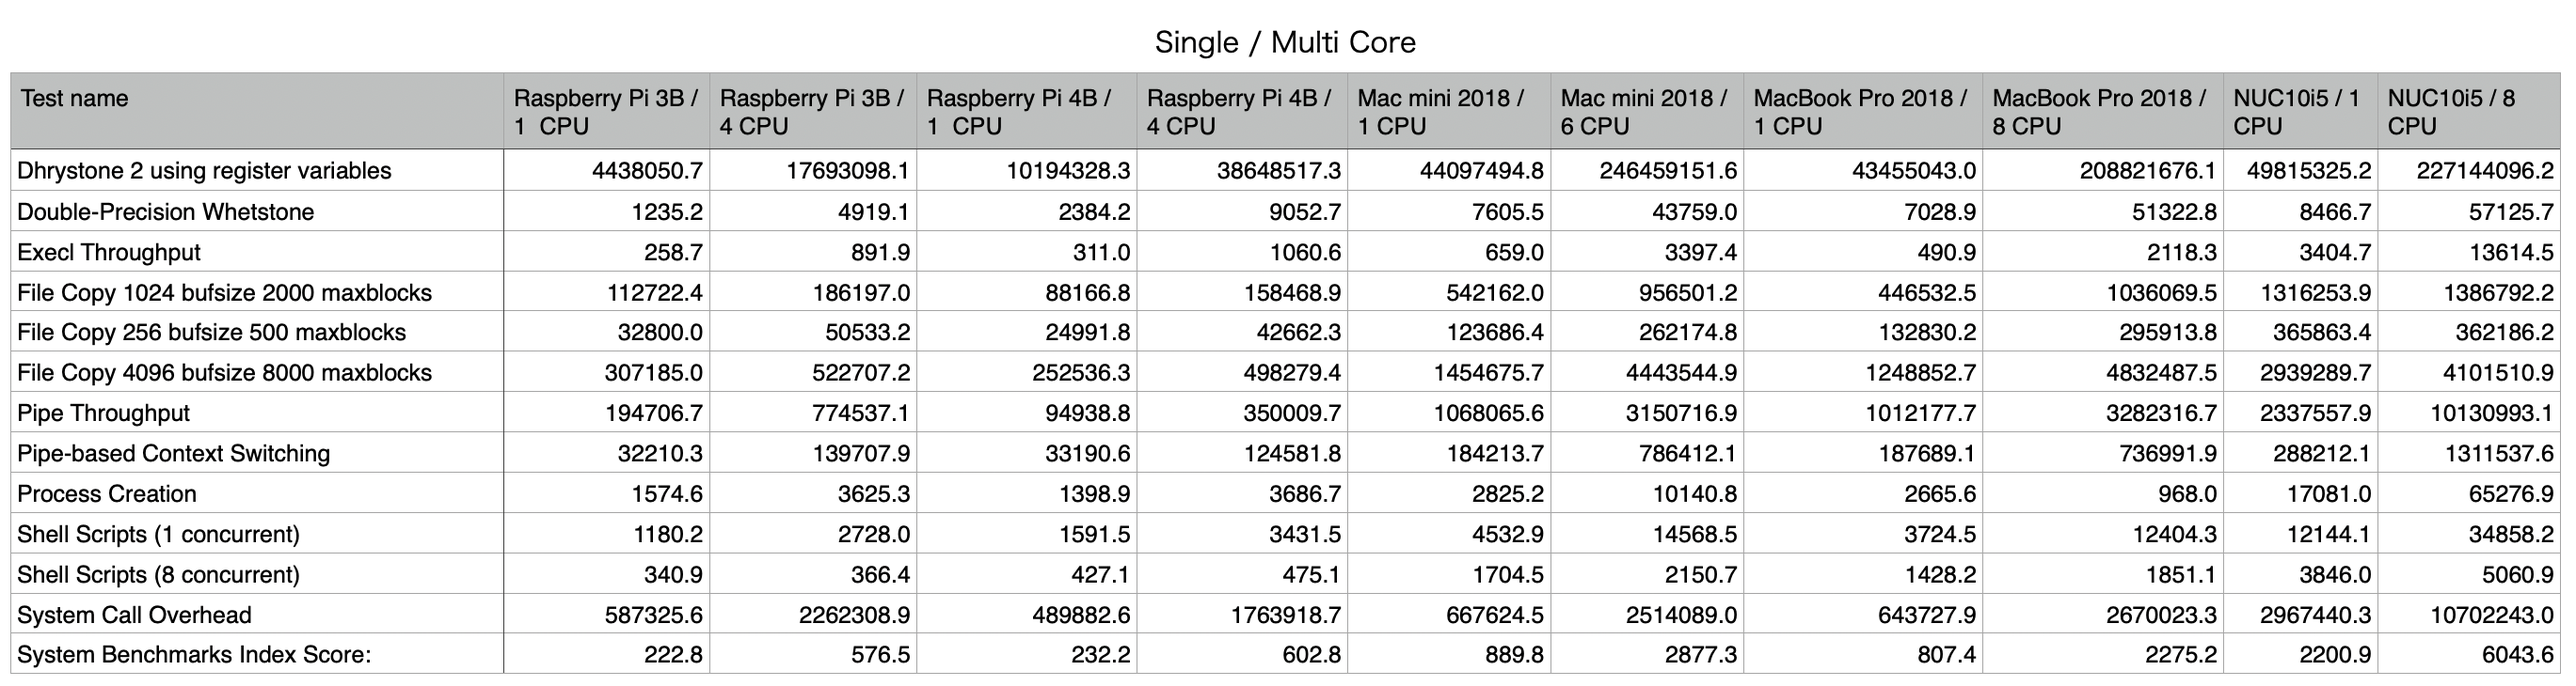
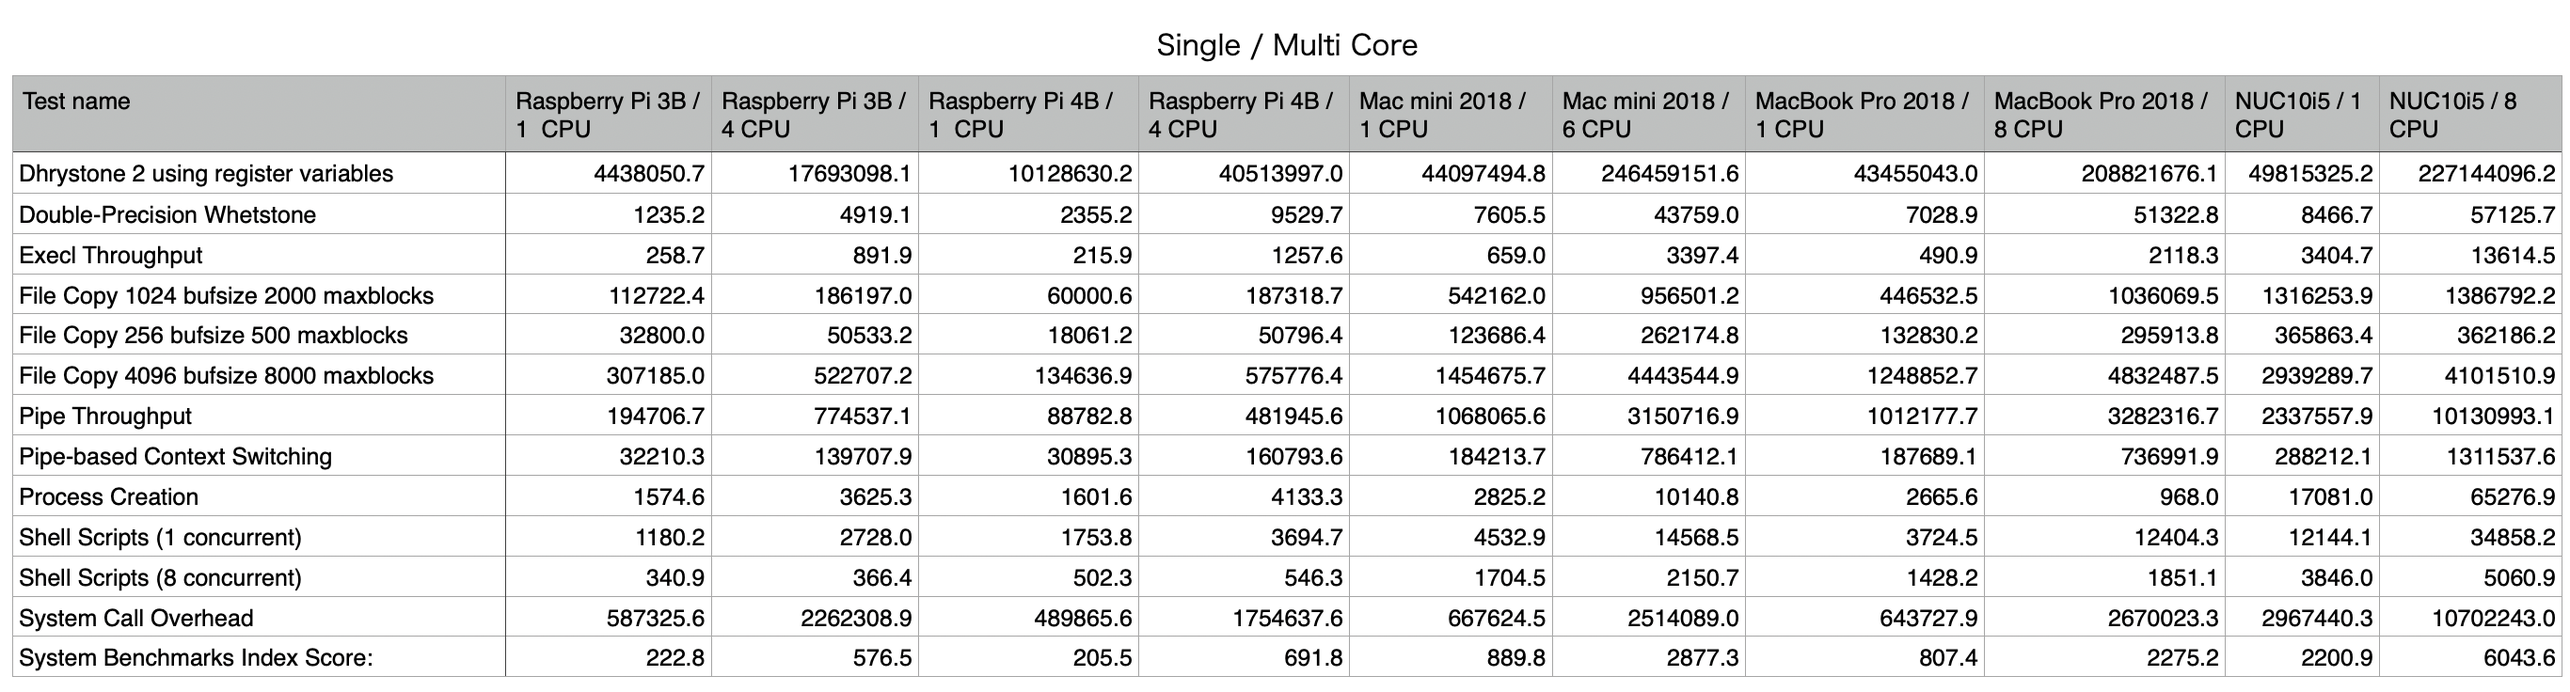
Update raspi4B

diff --git a/raspi4B-2020-11-18-01.html b/raspi4B-2020-11-18-01.html
@@ -35,7 +35,7 @@
    <td colspan=2>Raspberry Pi 4B: GNU/Linux</td>
 </tr><tr>
    <td><b>OS:</b></td>
-   <td colspan=2>GNU/Linux -- 5.4.72-v7l+ -- #1356 SMP Thu Oct 22 13:57:51 BST 2020</td>
+   <td colspan=2>GNU/Linux -- 5.4.51-v7l+ -- #1333 SMP Mon Aug 10 16:51:40 BST 2020</td>
 </tr><tr>
    <td><b>Machine:</b></td>
    <td colspan=2>armv7l: unknown</td>
@@ -66,13 +66,13 @@
 </tr>
 <tr>
    <td><b>Uptime:</b></td>
-   <td colspan=2>08:19:53 up 3 min,  3 users,  load average: 0.50, 0.44, 0.19; runlevel 2020-11-12</td>
+   <td colspan=2>12:24:33 up 16 min,  3 users,  load average: 1.07, 0.41, 0.20; runlevel 2020-11-18</td>
 </tr>
 </table></p>
 
 <p><hr/></p>
 <h3>Benchmark Run: 4 CPUs; 1 parallel process</h3>
-<p>Time: 08:19:53 - 08:47:50; 27m 57s</p>
+<p>Time: 12:24:33 - 12:52:28; 27m 55s</p>
 
 <h4>System Benchmarks</h4>
 <p><table width="100%">
@@ -87,106 +87,106 @@
 </tr>
 <tr>
    <td><b>Dhrystone 2 using register variables</b></td>
-   <td align=right><tt>10194328.3</tt></td>
+   <td align=right><tt>10128630.2</tt></td>
    <td align=left><tt>lps</tt></td>
    <td align=right><tt>10.0 s</tt></td>
    <td align=right><tt>7</tt></td>
    <td align=right><tt>116700.0</tt></td>
-   <td align=right><tt>873.5</tt></td>
+   <td align=right><tt>867.9</tt></td>
 </tr>
 <tr>
    <td><b>Double-Precision Whetstone</b></td>
-   <td align=right><tt>2384.2</tt></td>
+   <td align=right><tt>2355.2</tt></td>
    <td align=left><tt>MWIPS</tt></td>
    <td align=right><tt>9.6 s</tt></td>
    <td align=right><tt>7</tt></td>
    <td align=right><tt>55.0</tt></td>
-   <td align=right><tt>433.5</tt></td>
+   <td align=right><tt>428.2</tt></td>
 </tr>
 <tr>
    <td><b>Execl Throughput</b></td>
-   <td align=right><tt>311.0</tt></td>
+   <td align=right><tt>215.9</tt></td>
    <td align=left><tt>lps</tt></td>
    <td align=right><tt>29.9 s</tt></td>
    <td align=right><tt>2</tt></td>
    <td align=right><tt>43.0</tt></td>
-   <td align=right><tt>72.3</tt></td>
+   <td align=right><tt>50.2</tt></td>
 </tr>
 <tr>
    <td><b>File Copy 1024 bufsize 2000 maxblocks</b></td>
-   <td align=right><tt>88166.8</tt></td>
+   <td align=right><tt>60000.6</tt></td>
    <td align=left><tt>KBps</tt></td>
    <td align=right><tt>30.0 s</tt></td>
    <td align=right><tt>2</tt></td>
    <td align=right><tt>3960.0</tt></td>
-   <td align=right><tt>222.6</tt></td>
+   <td align=right><tt>151.5</tt></td>
 </tr>
 <tr>
    <td><b>File Copy 256 bufsize 500 maxblocks</b></td>
-   <td align=right><tt>24991.8</tt></td>
+   <td align=right><tt>18061.2</tt></td>
    <td align=left><tt>KBps</tt></td>
    <td align=right><tt>30.0 s</tt></td>
    <td align=right><tt>2</tt></td>
    <td align=right><tt>1655.0</tt></td>
-   <td align=right><tt>151.0</tt></td>
+   <td align=right><tt>109.1</tt></td>
 </tr>
 <tr>
    <td><b>File Copy 4096 bufsize 8000 maxblocks</b></td>
-   <td align=right><tt>252536.3</tt></td>
+   <td align=right><tt>134636.9</tt></td>
    <td align=left><tt>KBps</tt></td>
    <td align=right><tt>30.0 s</tt></td>
    <td align=right><tt>2</tt></td>
    <td align=right><tt>5800.0</tt></td>
-   <td align=right><tt>435.4</tt></td>
+   <td align=right><tt>232.1</tt></td>
 </tr>
 <tr>
    <td><b>Pipe Throughput</b></td>
-   <td align=right><tt>94938.8</tt></td>
+   <td align=right><tt>88782.8</tt></td>
    <td align=left><tt>lps</tt></td>
    <td align=right><tt>10.0 s</tt></td>
    <td align=right><tt>7</tt></td>
    <td align=right><tt>12440.0</tt></td>
-   <td align=right><tt>76.3</tt></td>
+   <td align=right><tt>71.4</tt></td>
 </tr>
 <tr>
    <td><b>Pipe-based Context Switching</b></td>
-   <td align=right><tt>33190.6</tt></td>
+   <td align=right><tt>30895.3</tt></td>
    <td align=left><tt>lps</tt></td>
    <td align=right><tt>10.0 s</tt></td>
    <td align=right><tt>7</tt></td>
    <td align=right><tt>4000.0</tt></td>
-   <td align=right><tt>83.0</tt></td>
+   <td align=right><tt>77.2</tt></td>
 </tr>
 <tr>
    <td><b>Process Creation</b></td>
-   <td align=right><tt>1398.9</tt></td>
+   <td align=right><tt>1601.6</tt></td>
    <td align=left><tt>lps</tt></td>
    <td align=right><tt>30.0 s</tt></td>
    <td align=right><tt>2</tt></td>
    <td align=right><tt>126.0</tt></td>
-   <td align=right><tt>111.0</tt></td>
+   <td align=right><tt>127.1</tt></td>
 </tr>
 <tr>
    <td><b>Shell Scripts (1 concurrent)</b></td>
-   <td align=right><tt>1591.5</tt></td>
+   <td align=right><tt>1753.8</tt></td>
    <td align=left><tt>lpm</tt></td>
    <td align=right><tt>60.0 s</tt></td>
    <td align=right><tt>2</tt></td>
    <td align=right><tt>42.4</tt></td>
-   <td align=right><tt>375.4</tt></td>
+   <td align=right><tt>413.6</tt></td>
 </tr>
 <tr>
    <td><b>Shell Scripts (8 concurrent)</b></td>
-   <td align=right><tt>427.1</tt></td>
+   <td align=right><tt>502.3</tt></td>
    <td align=left><tt>lpm</tt></td>
    <td align=right><tt>60.1 s</tt></td>
    <td align=right><tt>2</tt></td>
    <td align=right><tt>6.0</tt></td>
-   <td align=right><tt>711.8</tt></td>
+   <td align=right><tt>837.1</tt></td>
 </tr>
 <tr>
    <td><b>System Call Overhead</b></td>
-   <td align=right><tt>489882.6</tt></td>
+   <td align=right><tt>489865.6</tt></td>
    <td align=left><tt>lps</tt></td>
    <td align=right><tt>10.0 s</tt></td>
    <td align=right><tt>7</tt></td>
@@ -195,13 +195,13 @@
 </tr>
 <tr>
    <td colspan=6><b>System Benchmarks Index Score:</b></td>
-   <td align=right><b><tt>232.2</tt></b></td>
+   <td align=right><b><tt>205.5</tt></b></td>
 </tr>
 </table></p>
 
 <p><hr/></p>
 <h3>Benchmark Run: 4 CPUs; 4 parallel processes</h3>
-<p>Time: 08:47:50 - 09:15:54; 28m 04s</p>
+<p>Time: 12:52:28 - 13:20:27; 27m 59s</p>
 
 <h4>System Benchmarks</h4>
 <p><table width="100%">
@@ -216,115 +216,115 @@
 </tr>
 <tr>
    <td><b>Dhrystone 2 using register variables</b></td>
-   <td align=right><tt>38648517.3</tt></td>
+   <td align=right><tt>40513997.0</tt></td>
    <td align=left><tt>lps</tt></td>
    <td align=right><tt>10.0 s</tt></td>
    <td align=right><tt>7</tt></td>
    <td align=right><tt>116700.0</tt></td>
-   <td align=right><tt>3311.8</tt></td>
+   <td align=right><tt>3471.6</tt></td>
 </tr>
 <tr>
    <td><b>Double-Precision Whetstone</b></td>
-   <td align=right><tt>9052.7</tt></td>
+   <td align=right><tt>9529.7</tt></td>
    <td align=left><tt>MWIPS</tt></td>
    <td align=right><tt>9.6 s</tt></td>
    <td align=right><tt>7</tt></td>
    <td align=right><tt>55.0</tt></td>
-   <td align=right><tt>1645.9</tt></td>
+   <td align=right><tt>1732.7</tt></td>
 </tr>
 <tr>
    <td><b>Execl Throughput</b></td>
-   <td align=right><tt>1060.6</tt></td>
+   <td align=right><tt>1257.6</tt></td>
    <td align=left><tt>lps</tt></td>
    <td align=right><tt>29.9 s</tt></td>
    <td align=right><tt>2</tt></td>
    <td align=right><tt>43.0</tt></td>
-   <td align=right><tt>246.7</tt></td>
+   <td align=right><tt>292.5</tt></td>
 </tr>
 <tr>
    <td><b>File Copy 1024 bufsize 2000 maxblocks</b></td>
-   <td align=right><tt>158468.9</tt></td>
+   <td align=right><tt>187318.7</tt></td>
    <td align=left><tt>KBps</tt></td>
    <td align=right><tt>30.0 s</tt></td>
    <td align=right><tt>2</tt></td>
    <td align=right><tt>3960.0</tt></td>
-   <td align=right><tt>400.2</tt></td>
+   <td align=right><tt>473.0</tt></td>
 </tr>
 <tr>
    <td><b>File Copy 256 bufsize 500 maxblocks</b></td>
-   <td align=right><tt>42662.3</tt></td>
+   <td align=right><tt>50796.4</tt></td>
    <td align=left><tt>KBps</tt></td>
    <td align=right><tt>30.0 s</tt></td>
    <td align=right><tt>2</tt></td>
    <td align=right><tt>1655.0</tt></td>
-   <td align=right><tt>257.8</tt></td>
+   <td align=right><tt>306.9</tt></td>
 </tr>
 <tr>
    <td><b>File Copy 4096 bufsize 8000 maxblocks</b></td>
-   <td align=right><tt>498279.4</tt></td>
+   <td align=right><tt>575776.4</tt></td>
    <td align=left><tt>KBps</tt></td>
    <td align=right><tt>30.0 s</tt></td>
    <td align=right><tt>2</tt></td>
    <td align=right><tt>5800.0</tt></td>
-   <td align=right><tt>859.1</tt></td>
+   <td align=right><tt>992.7</tt></td>
 </tr>
 <tr>
    <td><b>Pipe Throughput</b></td>
-   <td align=right><tt>350009.7</tt></td>
+   <td align=right><tt>481945.6</tt></td>
    <td align=left><tt>lps</tt></td>
    <td align=right><tt>10.0 s</tt></td>
    <td align=right><tt>7</tt></td>
    <td align=right><tt>12440.0</tt></td>
-   <td align=right><tt>281.4</tt></td>
+   <td align=right><tt>387.4</tt></td>
 </tr>
 <tr>
    <td><b>Pipe-based Context Switching</b></td>
-   <td align=right><tt>124581.8</tt></td>
+   <td align=right><tt>160793.6</tt></td>
    <td align=left><tt>lps</tt></td>
    <td align=right><tt>10.0 s</tt></td>
    <td align=right><tt>7</tt></td>
    <td align=right><tt>4000.0</tt></td>
-   <td align=right><tt>311.5</tt></td>
+   <td align=right><tt>402.0</tt></td>
 </tr>
 <tr>
    <td><b>Process Creation</b></td>
-   <td align=right><tt>3686.7</tt></td>
+   <td align=right><tt>4133.3</tt></td>
    <td align=left><tt>lps</tt></td>
    <td align=right><tt>30.0 s</tt></td>
    <td align=right><tt>2</tt></td>
    <td align=right><tt>126.0</tt></td>
-   <td align=right><tt>292.6</tt></td>
+   <td align=right><tt>328.0</tt></td>
 </tr>
 <tr>
    <td><b>Shell Scripts (1 concurrent)</b></td>
-   <td align=right><tt>3431.5</tt></td>
+   <td align=right><tt>3694.7</tt></td>
    <td align=left><tt>lpm</tt></td>
-   <td align=right><tt>60.1 s</tt></td>
+   <td align=right><tt>60.0 s</tt></td>
    <td align=right><tt>2</tt></td>
    <td align=right><tt>42.4</tt></td>
-   <td align=right><tt>809.3</tt></td>
+   <td align=right><tt>871.4</tt></td>
 </tr>
 <tr>
    <td><b>Shell Scripts (8 concurrent)</b></td>
-   <td align=right><tt>475.1</tt></td>
+   <td align=right><tt>546.3</tt></td>
    <td align=left><tt>lpm</tt></td>
-   <td align=right><tt>60.2 s</tt></td>
+   <td align=right><tt>60.3 s</tt></td>
    <td align=right><tt>2</tt></td>
    <td align=right><tt>6.0</tt></td>
-   <td align=right><tt>791.8</tt></td>
+   <td align=right><tt>910.5</tt></td>
 </tr>
 <tr>
    <td><b>System Call Overhead</b></td>
-   <td align=right><tt>1763918.7</tt></td>
+   <td align=right><tt>1754637.6</tt></td>
    <td align=left><tt>lps</tt></td>
    <td align=right><tt>10.0 s</tt></td>
    <td align=right><tt>7</tt></td>
    <td align=right><tt>15000.0</tt></td>
-   <td align=right><tt>1175.9</tt></td>
+   <td align=right><tt>1169.8</tt></td>
 </tr>
 <tr>
    <td colspan=6><b>System Benchmarks Index Score:</b></td>
-   <td align=right><b><tt>602.8</tt></b></td>
+   <td align=right><b><tt>691.8</tt></b></td>
 </tr>
 </table></p>
 
